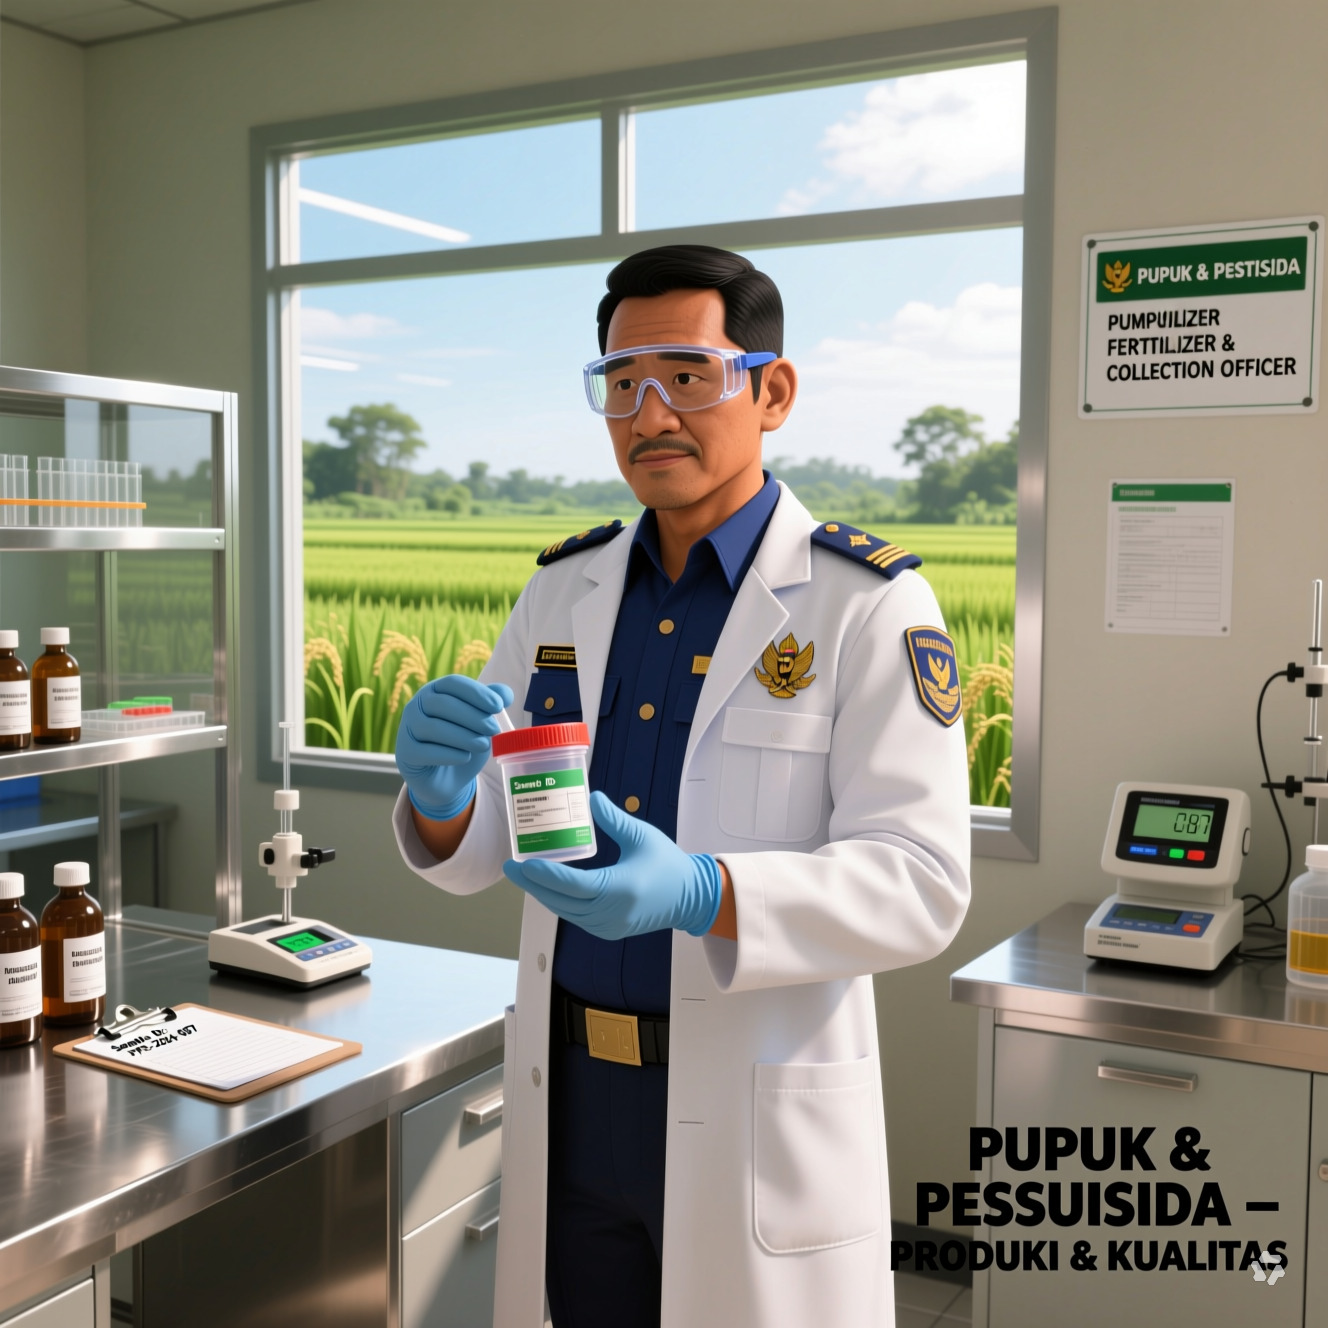
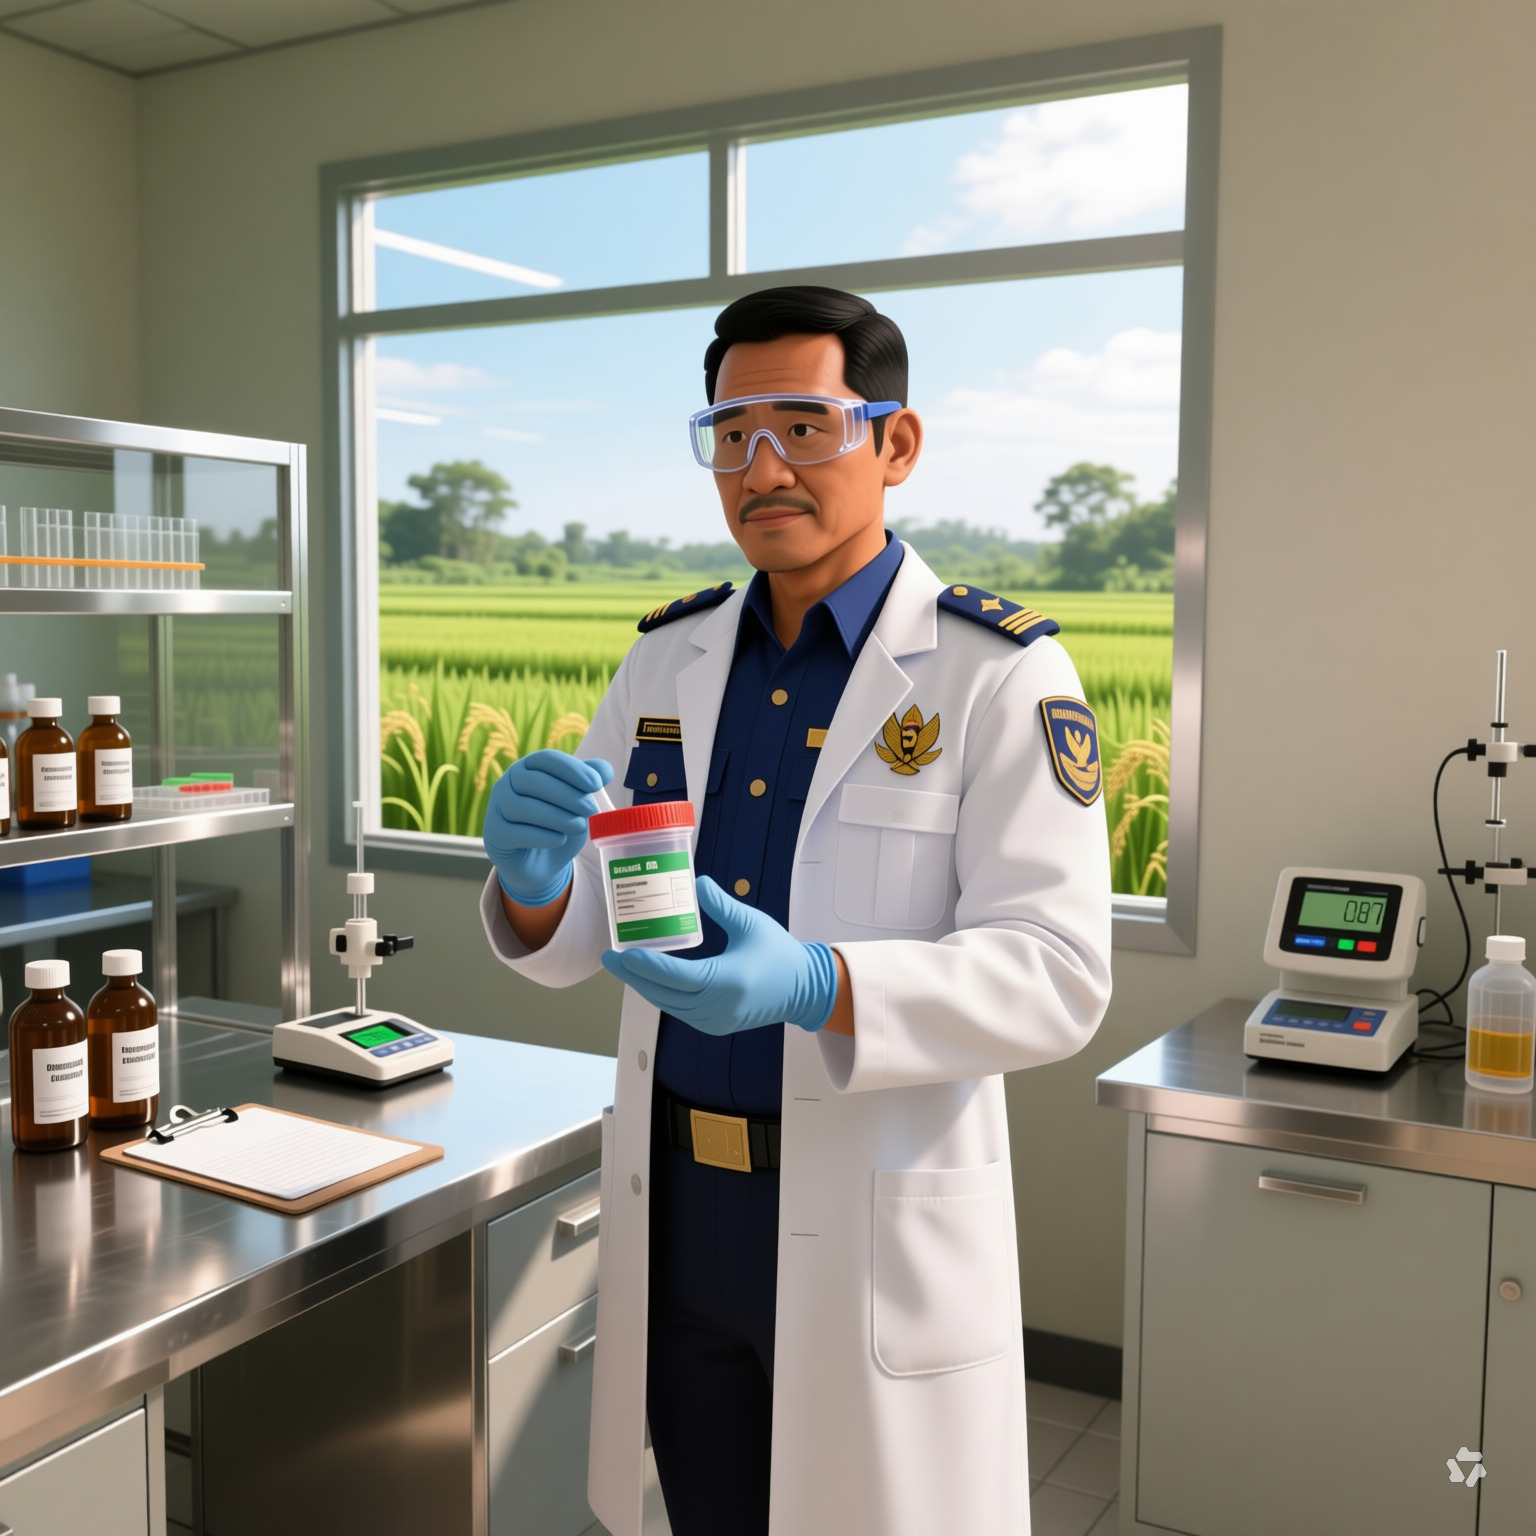
Add files via upload

diff --git a/index.html b/index.html
@@ -921,7 +921,7 @@
                     </div>
 
                     <p style="margin-bottom: 22px; color: #374151; text-align: justify; font-size: 0.95rem;">
-                        Saya, <strong>P. Sudjudi BSC, SP</strong> selaku PPC dari CV. Bina Mahabbah Jaya Mataram memiliki 2 sertifikat kompetensi sebagai PPC</p>
+                        Saya, <strong>Sudjudi BSc, SP</strong> selaku PPC dari CV. Bina Mahabbah Jaya Mataram memiliki 2 sertifikat kompetensi sebagai PPC</p>
 
                     <div class="dual-cert-wrapper">
                         <div class="cert-badge">
@@ -1175,7 +1175,7 @@
                 </div>
                 <div class="footer-col"><h4>Navigasi</h4><ul class="footer-links"><li><a href="#home"><i class="fa-solid fa-chevron-right"></i> Beranda</a></li><li><a href="#about"><i class="fa-solid fa-chevron-right"></i> Profil Ahli</a></li><li><a href="#services"><i class="fa-solid fa-chevron-right"></i> Layanan Sampling</a></li><li><a href="#sop"><i class="fa-solid fa-chevron-right"></i> SOP Kerja</a></li></ul></div>
                 <div class="footer-col"><h4>Layanan</h4><ul class="footer-links"><li><a href="#"><i class="fa-solid fa-chevron-right"></i> Sampling Pupuk</a></li><li><a href="#"><i class="fa-solid fa-chevron-right"></i> Sampling Pestisida</a></li><li><a href="#"><i class="fa-solid fa-chevron-right"></i> Konsultasi Regulasi</a></li></ul></div>
-                <div class="footer-col"><h4>Hubungi Kami</h4><ul class="footer-contact"><li><i class="fa-solid fa-location-dot"></i><span>Jln Diponegoro No 30 Sayang Sayang - Mataram, Lombok - NTB</span></li><li><i class="fa-solid fa-phone"></i><span>[phone redacted]</span></li><li><i class="fa-solid fa-envelope"></i><span>[email redacted]</span></li></ul></div>
+                <div class="footer-col"><h4>Hubungi Kami</h4><ul class="footer-contact"><li><i class="fa-solid fa-location-dot"></i><span>Jln Diponegoro No 30 Sayang Sayang, Cakranegara, NTB</span></li><li><i class="fa-solid fa-phone"></i><span>[phone redacted]</span></li><li><i class="fa-solid fa-envelope"></i><span>[email redacted]</span></li></ul></div>
             </div>
             <div class="copyright"><p>&copy; 2026 DIGITALPro. All Rights Reserved.</p></div>
         </div>